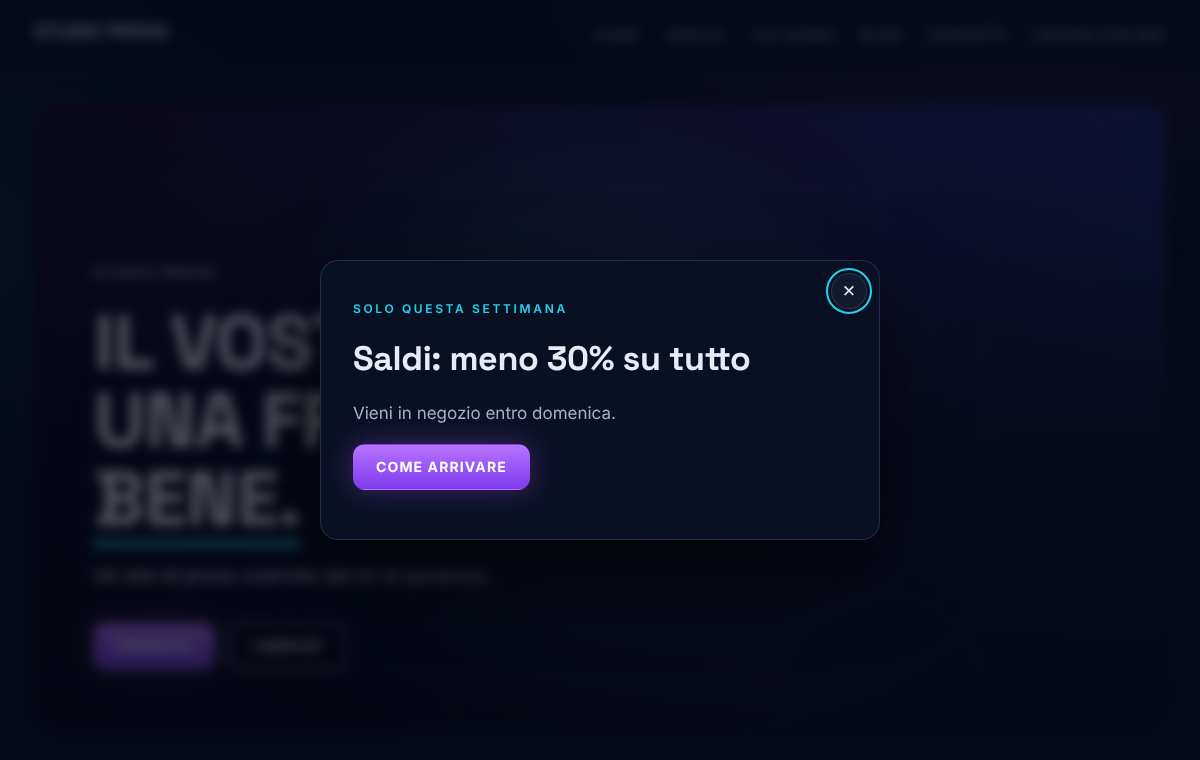
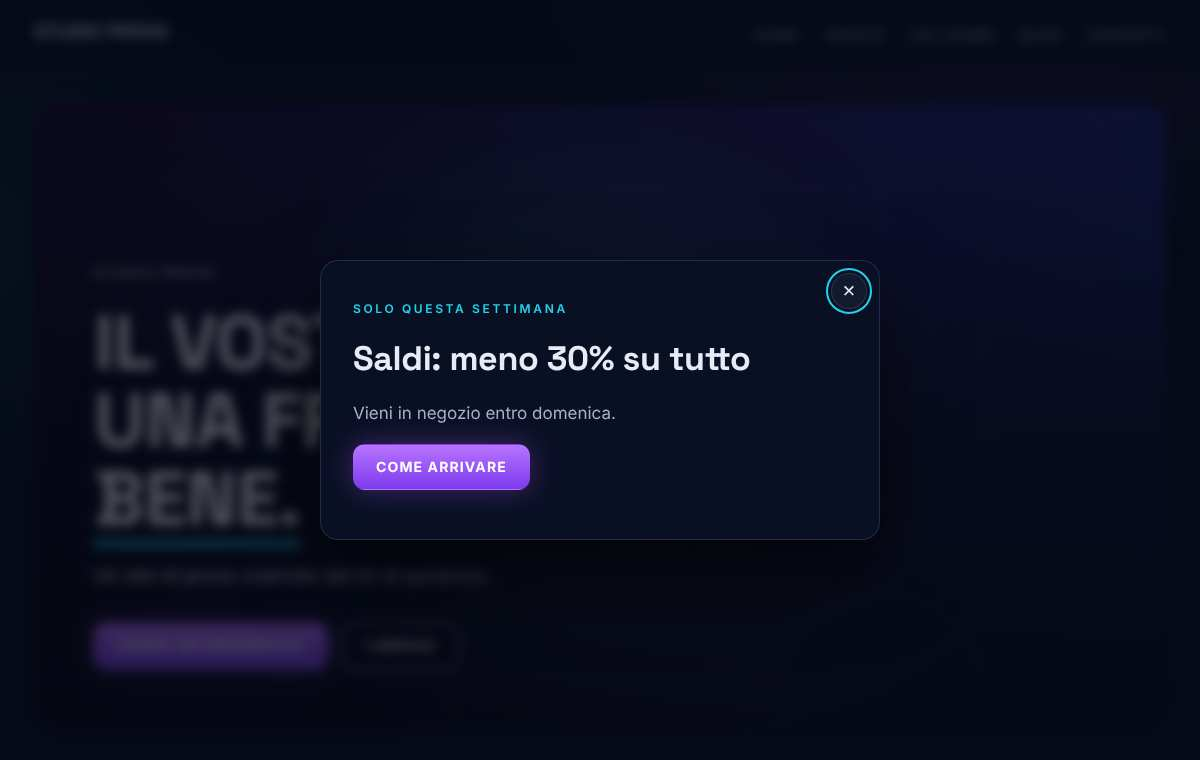
2.39.0 (lavoro): schermate 18 e 18e, Aspetto della finestra in fondo alla scheda, sito di plumeCMS (novità e riga nei form)

Changed region(s): [[0.1542, 0.8171, 0.2775, 0.9079]]

diff --git a/prove/prova-sito-plumecms.js b/prove/prova-sito-plumecms.js
@@ -221,6 +221,7 @@ async function contrastoParole(pg) {
     const terzi = (r ? r.voci.join(' ') : '').match(/brevo|google|wordpress|linkedin|facebook|instagram|whatsapp|telegram|mailgun|amazon|dropbox|indexnow|search console|gnu|claude|chatgpt|openai|anthropic|openverse|pexels|unsplash/gi) || [];
     ok('Scarica: nelle novità nessun nome di aziende terze', r && terzi.length === 0, terzi);
     if ((([a, b]) => a > 2 || (a === 2 && b >= 36))(V.split('.').map(Number))) ok('Scarica (2.36.0): fra le novità le pagine per zona senza limite', r && r.voci.some(x => /^2\.36\.0: Pagine per zona senza limite/.test(x)), r && r.voci);
+    if ((([a, b]) => a > 2 || (a === 2 && b >= 39))(V.split('.').map(Number))) ok('Scarica (2.39.0): fra le novità i popup costruiti con l\'editor visuale', r && r.voci.some(x => /^2\.39\.0: Popup costruiti con l'editor visuale/.test(x)), r && r.voci);
     ok('Scarica: le novità finiscono non oltre il riquadro Cosa serve', r && r.fondo <= r.sinistra + 2, r && { fondo: r.fondo, sinistra: r.sinistra }); }
   // 2.6.0: il blocco del pannello più chiaro in Funzionalità, con la sua schermata caricata; il logo di header e footer dallo Stile.
   await v.goto(B + '/funzionalita/', { waitUntil: 'networkidle' });
@@ -253,6 +254,7 @@ async function contrastoParole(pg) {
   ok('Funzionalità (2.34.0): nel blocco degli addon la riga AI collegate rimanda alla fascia, senza ripetere tutto', /AI collegate/.test(await v.locator('#addon').innerText()) && await v.locator('#addon a[href$="#ai"]').count() === 1 && !/Impara lo stile|Rivede anche i menu/.test(await v.locator('#addon').innerText()));
   ok('Funzionalità (2.37.0): Cambia database è una riga dentro la sicurezza, non un blocco nuovo (dieci caratteristiche)', /Cambia database/.test(await v.locator('#sicurezza').innerText()) && /database di prima resta intatto/.test(await v.locator('#sicurezza').innerText()) && await v.locator('#cambia-database, #cambia-db').count() === 0);
   ok('Funzionalità (2.38.0): la Pulizia è una riga dentro la sicurezza, non un blocco nuovo (dieci caratteristiche)', /Pulizia: il pannello ti dice quanto pesano/.test(await v.locator('#sicurezza').innerText()) && await v.locator('#pulizia').count() === 0);
+  ok('Funzionalità (2.39.0): i popup con l\'editor visuale sono una riga dentro i form, non un blocco nuovo (dieci caratteristiche)', /I popup li costruisci con l'editor visuale/.test(await v.locator('#form').innerText()) && await v.locator('#popup, #popup-editor').count() === 0);
   ok('Funzionalità (2.38.0): la scheda delle foto è una riga dentro la SEO, non un blocco nuovo (dieci caratteristiche)', /Ogni foto ha la sua scheda/.test(await v.locator('#seo').innerText()) && /Google Immagini/.test(await v.locator('#seo').innerText()) && await v.locator('#dati-immagini, #immagini').count() === 0);
   ok('Header e footer (2.6.0): il logo è quello dello Stile del sito', await v.evaluate(() => [...document.querySelectorAll('.marchio img')].length >= 2 && [...document.querySelectorAll('.marchio img')].every(i => /marchio/.test(i.getAttribute('src')))));
   // 2.5.0: la pagina Temi con le stagioni e le tinte piene, ogni immagine caricata.

diff --git a/tools/manuale-uso-schermate.js b/tools/manuale-uso-schermate.js
@@ -756,7 +756,8 @@ capitoli['18e'] = async () => {
   await p.check('#pp-c-editor'); await dorme(200);
   await p.selectOption('#pp-larghezza', 'media');
   await p.selectOption('[name=innesco]', 'secondi'); await p.fill('[name=valore]', '5');
-  await foto('18-popup-editor', { clip: { x: 240, y: 56, width: 960, height: 620 }, segni: [{ sel: '#pp-c-editor', n: 1 }, { sel: '#pp-apri-editor', n: 2 }, { sel: '#pp-larghezza', n: 3 }, { sel: '#pp-posizione', n: 4 }] });
+  const fondo18 = await p.locator('#pp-posizione').boundingBox();
+  await foto('18-popup-editor', { clip: { x: 240, y: 56, width: 960, height: Math.round(fondo18.y + fondo18.height + 40 - 56) }, segni: [{ sel: '#pp-c-editor', n: 1 }, { sel: '#pp-apri-editor', n: 2 }, { sel: '#pp-larghezza', n: 3 }, { sel: '#pp-posizione', n: 4 }] });
   await Promise.all([p.waitForNavigation(), p.click('#pp-apri-editor')]);
   const mid = +(p.url().match(/id=(\d+)/) || [0, 0])[1];
   if (!mid) throw new Error('18e: "Apri nell\'editor" non apre l\'editor');

diff --git a/cms/admin/popup.php b/cms/admin/popup.php
@@ -150,6 +150,15 @@ require_once __DIR__ . '/includes/admin-header.php';
         <div style="display:flex;gap:.5rem;margin-top:.8rem;flex-wrap:wrap"><button type="submit" class="btn btn-primary">Salva</button><a class="btn btn-secondary" href="popup.php">Elenco</a></div>
         <?php if ($v['id']): ?><div style="margin-top:.6rem;text-align:right"><button type="submit" class="sc-cestina" name="azione" value="elimina" data-conferma="Eliminare il popup<?= $m ? ' e il suo disegno' : '' ?>?" data-conferma-pericolo data-conferma-ok="Elimina il popup">Elimina</button></div><?php endif; ?>
       </div></div>
+      <div class="sc-scatola"><h3>Dove e quando</h3><div class="sc-corpo">
+        <label for="pp-dove">Su quali pagine</label>
+        <select name="dove" id="pp-dove"><?php foreach (POPUP_DOVE as $k => $n): ?><option value="<?= $k ?>" <?= $v['dove'] === $k ? 'selected' : '' ?>><?= h($n) ?></option><?php endforeach; ?></select>
+        <label for="pp-percorsi">Indirizzi (uno per riga, solo per "indirizzi elencati")</label><textarea name="percorsi" id="pp-percorsi" rows="3" placeholder="/contatti/&#10;/servizi/" data-link-sito="riga"><?= h($v['percorsi']) ?></textarea>
+        <label for="pp-innesco">Quando compare</label>
+        <select name="innesco" id="pp-innesco"><?php foreach (POPUP_INNESCHI as $k => $n): ?><option value="<?= $k ?>" <?= $v['innesco'] === $k ? 'selected' : '' ?>><?= h($n) ?></option><?php endforeach; ?></select>
+        <label for="pp-valore">Secondi, oppure percentuale della pagina</label><input type="number" name="valore" id="pp-valore" value="<?= (int)$v['valore'] ?>" min="0" max="600">
+        <label for="pp-giorni">Ogni quanti giorni la stessa persona lo rivede (0 = sempre)</label><input type="number" name="frequenza_giorni" id="pp-giorni" value="<?= (int)$v['frequenza_giorni'] ?>" min="0" max="365">
+      </div></div>
       <div class="sc-scatola"><h3>Aspetto della finestra</h3><div class="sc-corpo">
         <label for="pp-larghezza">Larghezza</label>
         <select name="larghezza" id="pp-larghezza"><?php foreach (POPUP_LARGHEZZE as $k => $n): ?><option value="<?= h($k) ?>" <?= $v['larghezza'] === $k ? 'selected' : '' ?>><?= h($n) ?></option><?php endforeach; ?></select>
@@ -159,15 +168,6 @@ require_once __DIR__ . '/includes/admin-header.php';
         <input type="hidden" name="sfondo_finestra" value="0">
         <label class="pp-casella" style="margin-top:.7rem"><input type="checkbox" name="sfondo_finestra" value="1" <?= $v['sfondo_finestra'] ? 'checked' : '' ?>> Finestra con il fondo, il bordo e il margine</label>
         <p class="hint">Togli la spunta se il disegno ha già il suo fondo: allora decide tutto il disegno.</p>
-      </div></div>
-      <div class="sc-scatola"><h3>Dove e quando</h3><div class="sc-corpo">
-        <label for="pp-dove">Su quali pagine</label>
-        <select name="dove" id="pp-dove"><?php foreach (POPUP_DOVE as $k => $n): ?><option value="<?= $k ?>" <?= $v['dove'] === $k ? 'selected' : '' ?>><?= h($n) ?></option><?php endforeach; ?></select>
-        <label for="pp-percorsi">Indirizzi (uno per riga, solo per "indirizzi elencati")</label><textarea name="percorsi" id="pp-percorsi" rows="3" placeholder="/contatti/&#10;/servizi/" data-link-sito="riga"><?= h($v['percorsi']) ?></textarea>
-        <label for="pp-innesco">Quando compare</label>
-        <select name="innesco" id="pp-innesco"><?php foreach (POPUP_INNESCHI as $k => $n): ?><option value="<?= $k ?>" <?= $v['innesco'] === $k ? 'selected' : '' ?>><?= h($n) ?></option><?php endforeach; ?></select>
-        <label for="pp-valore">Secondi, oppure percentuale della pagina</label><input type="number" name="valore" id="pp-valore" value="<?= (int)$v['valore'] ?>" min="0" max="600">
-        <label for="pp-giorni">Ogni quanti giorni la stessa persona lo rivede (0 = sempre)</label><input type="number" name="frequenza_giorni" id="pp-giorni" value="<?= (int)$v['frequenza_giorni'] ?>" min="0" max="365">
       </div></div>
     </aside>
   </div>

diff --git a/sito-plumecms/costruisci.py b/sito-plumecms/costruisci.py
@@ -288,7 +288,8 @@ def funzionalita():
           '<li>Su ogni blocco vedi quanti ci sono adesso e quanti ci sono passati; chi vuoi lo togli con un clic.</li></ul>']),
         ('form', 'form-passi.webp', 'Form e consenso: in regola senza fatica',
          ['I form si costruiscono in cinque passi: cosa chiedere, come appare, i messaggi, la conferma, dove metterlo. Ogni campo finisce nella scheda del contatto, e a ogni compilazione decidi tu chi riceve l\'email.',
-          '<ul><li>Il form ha la sua pagina da condividere, il codice da mettere in un altro sito e il QR da stampare. E i popup decidi tu quando e dove.</li>'
+          '<ul><li>Il form ha la sua pagina da condividere, il codice da mettere in un altro sito e il QR da stampare.</li>'
+          '<li>I popup li costruisci con l\'editor visuale, come una pagina, oppure con pochi campi; al centro, in basso a destra o come barra, e decidi tu quando e dove.</li>'
           '<li>Doppia conferma, dichiarazione per la privacy con la casella vuota, consenso registrato con data e ora.</li>'
           '<li>Chi vuole uscire esce da una lista sola o sceglie cosa ricevere, e ti dice perché.</li></ul>']),
         ('seo', 'seo.webp', 'SEO e AEO: ti trovano Google e le intelligenze artificiali',
@@ -750,6 +751,7 @@ def zip_lavagna(dest):
 # Regola di Danilo (1 novembre 2026): solo i punti salienti, una riga per versione, mai nomi di aziende o servizi di terzi.
 # Le novità per chi scarica: brevi, scritte qui (il CHANGELOG è per chi sviluppa). Da aggiornare a ogni versione.
 NOVITA = [
+    ('2.39.0', 'Popup costruiti con l\'editor visuale', ['Un popup si compone come una pagina: sezioni, colonne e tutti i widget, con bozza, pubblicazione e versioni. Oppure con i campi semplici di sempre.', 'Larghezza e posizione della finestra a scelta: al centro, in basso a destra o come barra in fondo o in cima. Un pulsante con il link #chiudi chiude il popup.']),
     ('2.38.0', 'Pulizia e dati delle immagini', ['Un controllo di cosa si può togliere, con il peso di ogni voce e del database: copie e snapshot vecchi, log, versioni, cestino, registri, immagini non usate; togli tutto o solo una parte, sempre dopo un riepilogo.', 'Ogni foto ha la sua scheda: testo alternativo con il consiglio, titolo, didascalia, descrizione, autore e licenza, e dove è usata. Le foto a cui manca qualcosa in un elenco, i dati della foto principale per i motori di ricerca e il nome del file leggibile.']),
     ('2.37.0', 'Cambia database', ['Sposta tutto il sito su un altro database, anche su un altro server: copia a giri con la barra, righe contate tabella per tabella, passaggio solo a conti tornati, il database di prima intatto e il ritorno con un clic.']),
     ('2.36.0', 'Pagine per zona senza limite', ['Le pagine per zona non hanno più un tetto di 200: fino a cento zone per giro, l\'elenco a pagine con la ricerca e i numeri in cima, e il widget Altre zone che ne mostra quante vuoi, anche le più vicine. Il sito resta veloce con migliaia di zone.']),
